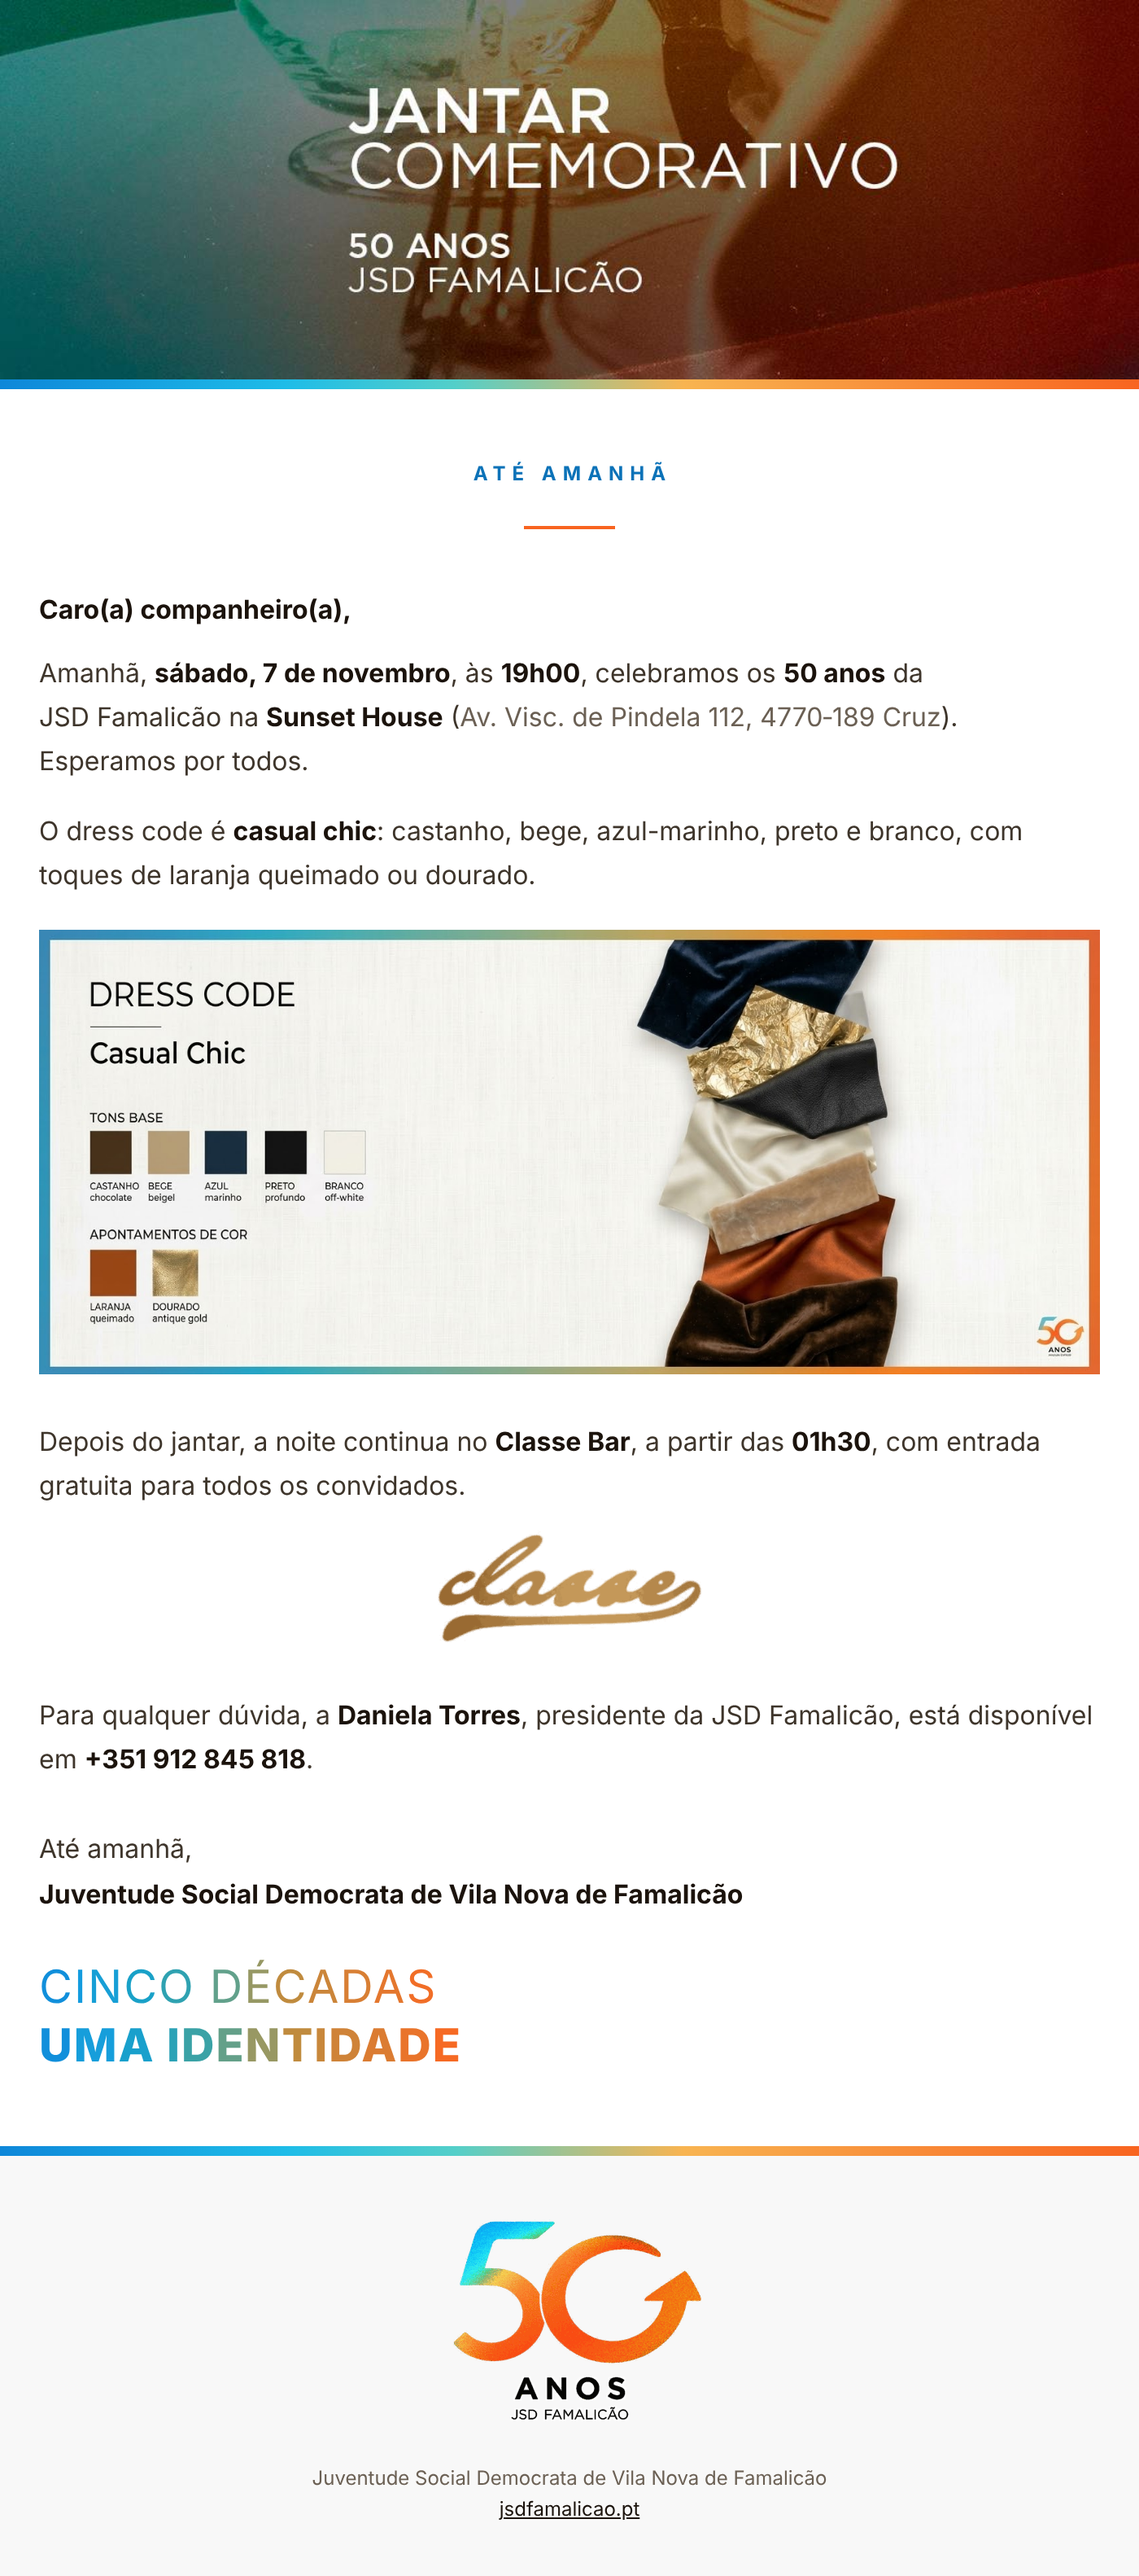
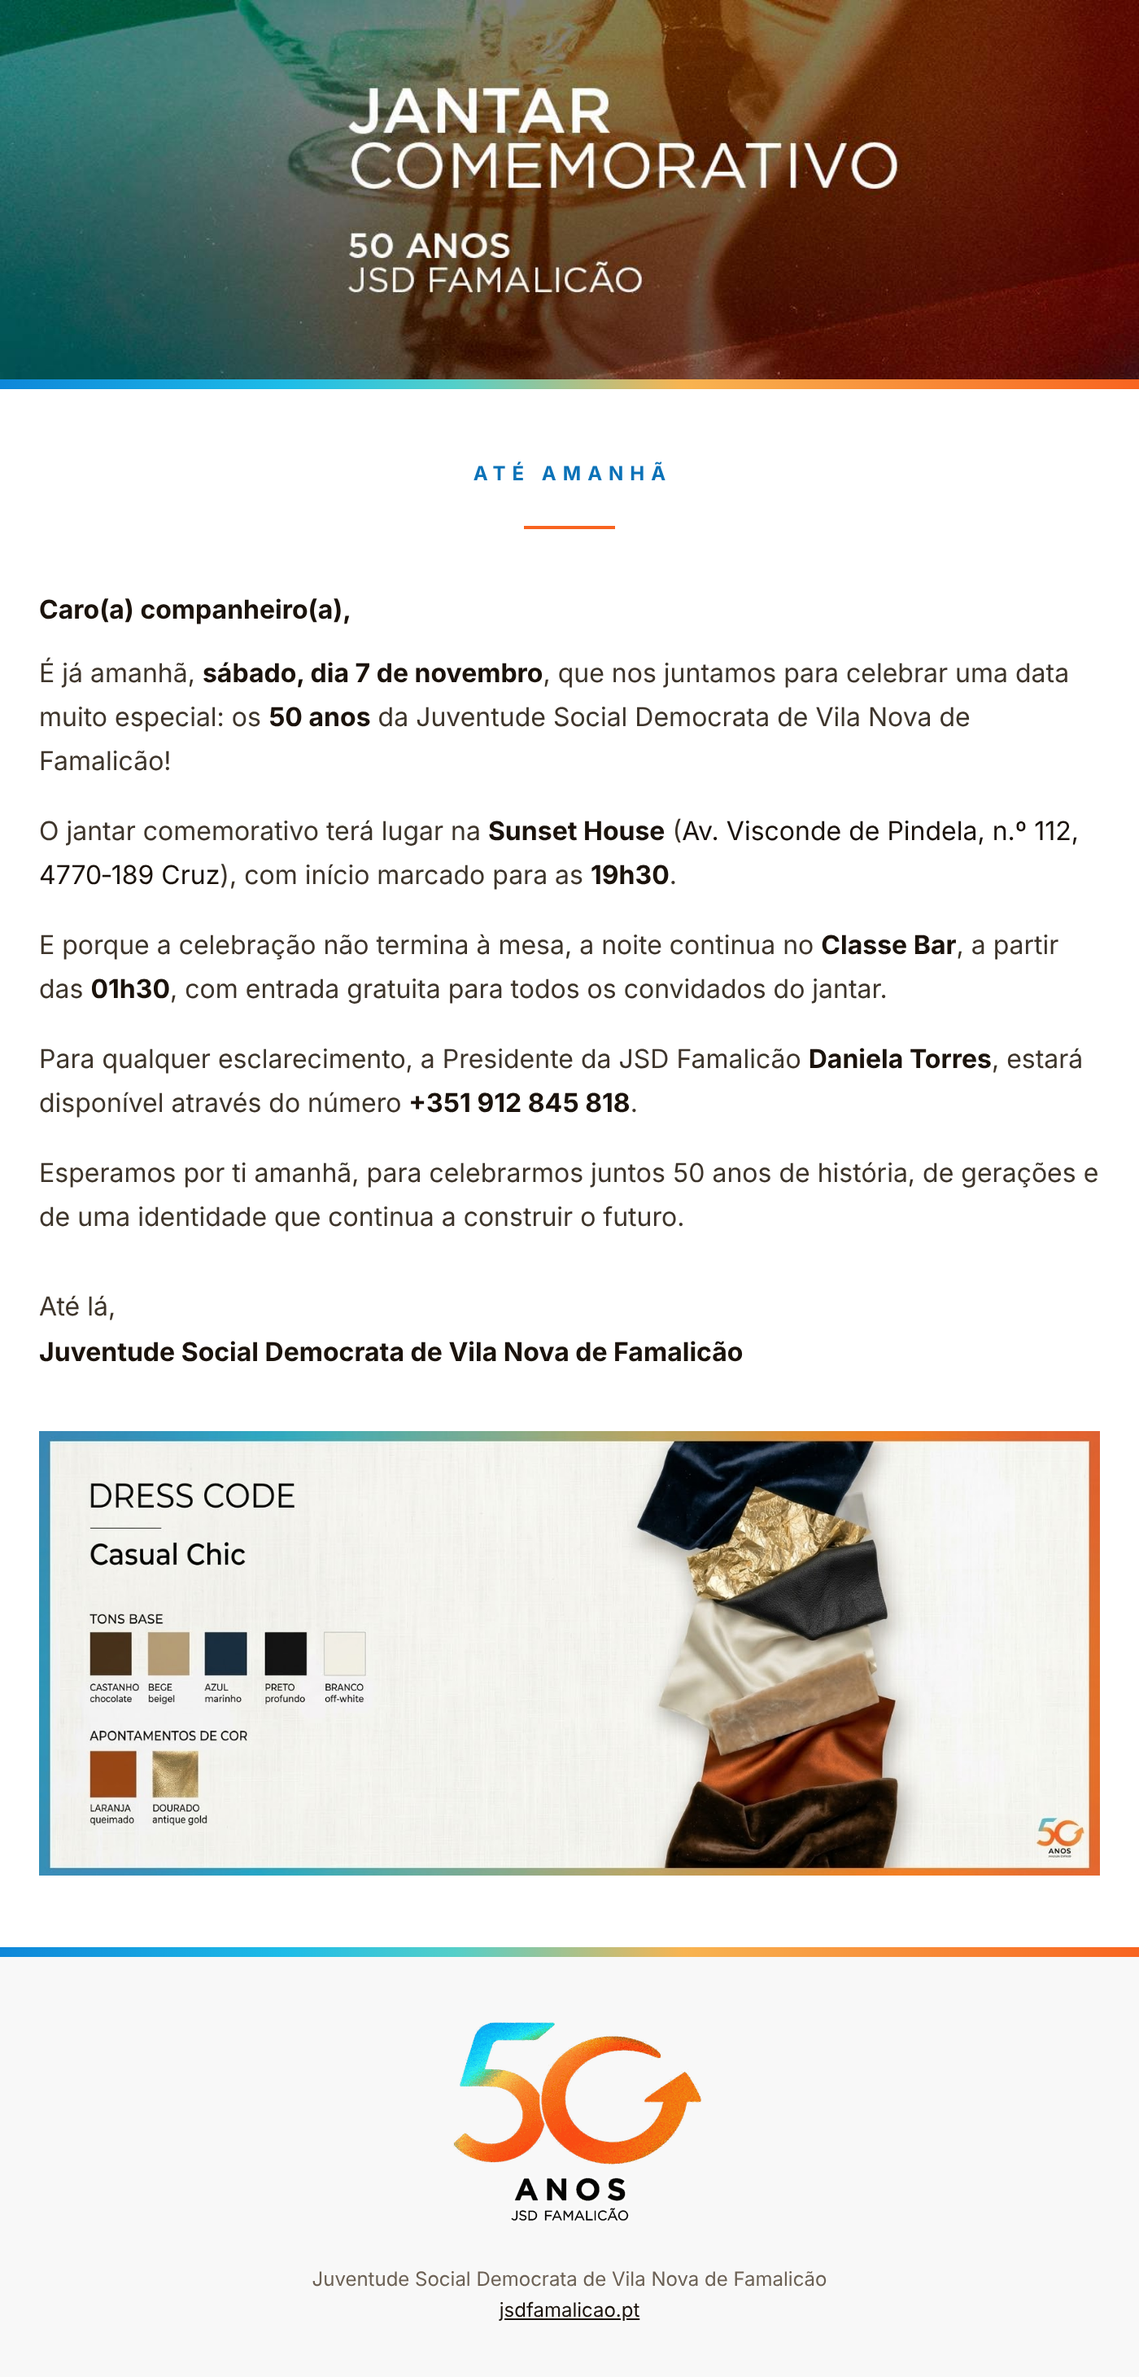
Lembrete: texto final fornecido pela JSD, imagem do dress code no fim
Claude-Session: https://claude.ai/code/session_01NgGM5uT8XH9LdBdVBivDe4

diff --git a/email/jsd-50-anos/v13-lembrete-evento.html b/email/jsd-50-anos/v13-lembrete-evento.html
@@ -41,7 +41,7 @@ Espaços feitos com padding de células; o <style> acima só aumenta a letra em 
 <body style="margin:0; padding:0; background-color:#FFFFFF;">
 
 <div style="display:none; max-height:0; overflow:hidden; opacity:0; font-size:1px; line-height:1px; color:#FFFFFF;">
-Amanhã, 19h00, Sunset House. Dress code casual chic e after party no Classe Bar.
+É já amanhã. Sunset House, 19h30. Depois, a noite continua no Classe Bar, a partir das 01h30.
 &#8199;&#847;&#8199;&#847;&#8199;&#847;&#8199;&#847;&#8199;&#847;&#8199;&#847;&#8199;&#847;&#8199;&#847;
 </div>
 
@@ -78,37 +78,30 @@ style="display:block; min-width:100%; max-width:100%; height:auto; border:0; out
 <td class="px t-corpo" align="left" style="padding:36px 24px 0px 24px; font-family:Montserrat,'Helvetica Neue',Helvetica,Arial,sans-serif; font-size:16px; line-height:27px; font-weight:700; color:#1B130C; text-align:left;">Caro(a) companheiro(a),</td>
 </tr>
 <tr>
-<td class="px t-corpo" align="left" style="padding:12px 24px 0px 24px; font-family:Montserrat,'Helvetica Neue',Helvetica,Arial,sans-serif; font-size:16px; line-height:27px; color:#3E352B; text-align:left;">Amanhã, <strong style="color:#1B130C;">sábado, 7&nbsp;de&nbsp;novembro</strong>, às <strong style="color:#1B130C;">19h00</strong>, celebramos os <strong style="color:#1B130C;">50&nbsp;anos</strong> da JSD&nbsp;Famalicão na <strong style="color:#1B130C;">Sunset&nbsp;House</strong> (<a href="https://www.google.com/maps/search/?api=1&amp;query=Av.+Visconde+de+Pindela+112,+4770-189+Cruz" style="color:#6B6054; text-decoration:none;">Av.&nbsp;Visc.&nbsp;de&nbsp;Pindela&nbsp;112, 4770&#8209;189&nbsp;Cruz</a>). Esperamos por todos.</td>
+<td class="px t-corpo" align="left" style="padding:12px 24px 0px 24px; font-family:Montserrat,'Helvetica Neue',Helvetica,Arial,sans-serif; font-size:16px; line-height:27px; color:#3E352B; text-align:left;">É já amanhã, <strong style="color:#1B130C;">sábado, dia 7&nbsp;de&nbsp;novembro</strong>, que nos juntamos para celebrar uma data muito especial: os <strong style="color:#1B130C;">50&nbsp;anos</strong> da Juventude Social Democrata de Vila Nova de Famalicão!</td>
 </tr>
 <tr>
-<td class="px t-corpo" align="left" style="padding:16px 24px 0px 24px; font-family:Montserrat,'Helvetica Neue',Helvetica,Arial,sans-serif; font-size:16px; line-height:27px; color:#3E352B; text-align:left;">O dress code é <strong style="color:#1B130C;">casual chic</strong>: castanho, bege, azul-marinho, preto e branco, com toques de laranja queimado ou dourado.</td>
+<td class="px t-corpo" align="left" style="padding:16px 24px 0px 24px; font-family:Montserrat,'Helvetica Neue',Helvetica,Arial,sans-serif; font-size:16px; line-height:27px; color:#3E352B; text-align:left;">O jantar comemorativo terá lugar na <strong style="color:#1B130C;">Sunset&nbsp;House</strong> (<a href="https://www.google.com/maps/search/?api=1&amp;query=Av.+Visconde+de+Pindela+112,+4770-189+Cruz" style="color:#1B130C; text-decoration:none;">Av.&nbsp;Visconde de Pindela, n.º&nbsp;112, 4770&#8209;189&nbsp;Cruz</a>), com início marcado para as <strong style="color:#1B130C;">19h30</strong>.</td>
 </tr>
 <tr>
-<td class="px" align="center" style="padding:20px 24px 0px 24px; font-size:0; line-height:0; text-align:center;">
-<img src="https://jsdfamalicao.pt/convite/dresscode.png" width="992" alt="Dress code: Casual Chic. Tons base: castanho, bege, azul-marinho, preto e branco. Apontamentos de cor: laranja queimado e dourado." style="display:block; min-width:100%; max-width:100%; height:auto; border:0; outline:none; color:#1B130C; font-family:Montserrat,'Helvetica Neue',Helvetica,Arial,sans-serif; font-size:16px; line-height:24px;">
-</td>
+<td class="px t-corpo" align="left" style="padding:16px 24px 0px 24px; font-family:Montserrat,'Helvetica Neue',Helvetica,Arial,sans-serif; font-size:16px; line-height:27px; color:#3E352B; text-align:left;">E porque a celebração não termina à mesa, a noite continua no <strong style="color:#1B130C;">Classe&nbsp;Bar</strong>, a partir das <strong style="color:#1B130C;">01h30</strong>, com entrada gratuita para todos os convidados do jantar.</td>
 </tr>
 <tr>
-<td class="px t-corpo" align="left" style="padding:28px 24px 0px 24px; font-family:Montserrat,'Helvetica Neue',Helvetica,Arial,sans-serif; font-size:16px; line-height:27px; color:#3E352B; text-align:left;">Depois do jantar, a noite continua no <strong style="color:#1B130C;">Classe&nbsp;Bar</strong>, a partir das <strong style="color:#1B130C;">01h30</strong>, com entrada gratuita para todos os convidados.</td>
+<td class="px t-corpo" align="left" style="padding:16px 24px 0px 24px; font-family:Montserrat,'Helvetica Neue',Helvetica,Arial,sans-serif; font-size:16px; line-height:27px; color:#3E352B; text-align:left;">Para qualquer esclarecimento, a Presidente da JSD&nbsp;Famalicão <strong style="color:#1B130C;">Daniela Torres</strong>, estará disponível através do número <a href="tel:+351912845818" style="color:#1B130C; font-weight:700; text-decoration:none;">+351&nbsp;912&nbsp;845&nbsp;818</a>.</td>
 </tr>
 <tr>
-<td class="px" align="center" style="padding:12px 24px 0px 24px; font-size:0; line-height:0; text-align:center;">
-<table role="presentation" align="center" cellpadding="0" cellspacing="0" border="0" style="margin:0 auto;"><tr><td style="font-size:0; line-height:0; text-align:center;">
-<img src="https://jsdfamalicao.pt/convite/logo-classe.png" width="170" alt="Classe Bar" style="display:block; width:170px; max-width:100%; height:auto; border:0; outline:none; color:#1B130C; font-family:Montserrat,'Helvetica Neue',Helvetica,Arial,sans-serif; font-size:24px; line-height:30px;">
-</td></tr></table>
-</td>
+<td class="px t-corpo" align="left" style="padding:16px 24px 0px 24px; font-family:Montserrat,'Helvetica Neue',Helvetica,Arial,sans-serif; font-size:16px; line-height:27px; color:#3E352B; text-align:left;">Esperamos por ti amanhã, para celebrarmos juntos 50 anos de história, de gerações e de uma identidade que continua a construir o futuro.</td>
 </tr>
 <tr>
-<td class="px t-corpo" align="left" style="padding:28px 24px 0px 24px; font-family:Montserrat,'Helvetica Neue',Helvetica,Arial,sans-serif; font-size:16px; line-height:27px; color:#3E352B; text-align:left;">Para qualquer dúvida, a <strong style="color:#1B130C;">Daniela Torres</strong>, presidente da JSD&nbsp;Famalicão, está disponível em <a href="tel:+351912845818" style="color:#1B130C; font-weight:700; text-decoration:none;">+351&nbsp;912&nbsp;845&nbsp;818</a>.</td>
-</tr>
-<tr>
-<td class="px t-corpo" align="left" style="padding:28px 24px 0px 24px; font-family:Montserrat,'Helvetica Neue',Helvetica,Arial,sans-serif; font-size:16px; line-height:27px; color:#3E352B; text-align:left;">Até amanhã,</td>
+<td class="px t-corpo" align="left" style="padding:28px 24px 0px 24px; font-family:Montserrat,'Helvetica Neue',Helvetica,Arial,sans-serif; font-size:16px; line-height:27px; color:#3E352B; text-align:left;">Até lá,</td>
 </tr>
 <tr>
 <td class="px t-corpo" align="left" style="padding:2px 24px 0px 24px; font-family:Montserrat,'Helvetica Neue',Helvetica,Arial,sans-serif; font-size:16px; line-height:25px; font-weight:700; color:#1B130C; text-align:left;">Juventude Social Democrata de Vila Nova de&nbsp;Famalicão</td>
 </tr>
 <tr>
-<td class="px t-mote" align="left" style="padding:26px 24px 0px 24px; font-family:Montserrat,'Helvetica Neue',Helvetica,Arial,sans-serif; font-size:28px; line-height:36px; letter-spacing:1px; color:#3E352B; text-align:left;"><span style="font-weight:400;"><span style="color:#118FDB;">C</span><span style="color:#149CDF;">I</span><span style="color:#179FD6;">N</span><span style="color:#19A1C8;">C</span><span style="color:#2FA2B1;">O</span> <span style="color:#62A18B;">D</span><span style="color:#969864;">É</span><span style="color:#C08B3E;">C</span><span style="color:#CB8539;">A</span><span style="color:#D87F34;">D</span><span style="color:#E4772E;">A</span><span style="color:#F16E27;">S</span></span><br><span style="font-weight:800;"><span style="color:#118FDB;">U</span><span style="color:#169EDB;">M</span><span style="color:#19A0CC;">A</span> <span style="color:#2BA2B6;">I</span><span style="color:#3AA2A6;">D</span><span style="color:#64A089;">E</span><span style="color:#989863;">N</span><span style="color:#C08B3E;">T</span><span style="color:#C8873B;">I</span><span style="color:#CF8338;">D</span><span style="color:#DB7C32;">A</span><span style="color:#E9742B;">D</span><span style="color:#F66A24;">E</span></span></td>
+<td class="px" align="center" style="padding:36px 24px 0px 24px; font-size:0; line-height:0; text-align:center;">
+<img src="https://jsdfamalicao.pt/convite/dresscode.png" width="992" alt="Dress code: Casual Chic. Tons base: castanho, bege, azul-marinho, preto e branco. Apontamentos de cor: laranja queimado e dourado." style="display:block; min-width:100%; max-width:100%; height:auto; border:0; outline:none; color:#1B130C; font-family:Montserrat,'Helvetica Neue',Helvetica,Arial,sans-serif; font-size:16px; line-height:24px;">
+</td>
 </tr>
 <tr>
 <td class="px t-corpo" align="left" style="padding:0px 24px 44px 24px; font-family:Montserrat,'Helvetica Neue',Helvetica,Arial,sans-serif; font-size:16px; line-height:27px; color:#3E352B; text-align:left;"></td>

diff --git a/email/jsd-50-anos/src/gerar_lembrete_evento.py b/email/jsd-50-anos/src/gerar_lembrete_evento.py
@@ -5,29 +5,29 @@ from gerar_confirmacao import *      # blocos de v11/v12
 
 F = FORTE
 TEL = '+351&nbsp;912&nbsp;845&nbsp;818'
-PRE = 'Amanhã, 19h00, Sunset House. Dress code casual chic e after party no Classe Bar.'
+PRE = 'É já amanhã. Sunset House, 19h30. Depois, a noite continua no Classe Bar, a partir das 01h30.'
 
 def logo_classe_pequeno(cima):
     return logo_classe(cima).replace('width="240"', 'width="170"').replace('width:240px', 'width:170px')
 
 def lembrete():
+    L = lambda t, c: linha(t, c, 0)
     corpo = ''.join([
         cabecalho('ATÉ AMANHÃ', titulo=None, subtitulo=None),
         linha('Caro(a) companheiro(a),', 36, 0, f'font-size:16px; line-height:27px; font-weight:700; color:{ESCURO};'),
-        linha(f'Amanhã, <strong {F}>sábado, 7&nbsp;de&nbsp;novembro</strong>, às <strong {F}>19h00</strong>, celebramos os '
-              f'<strong {F}>50&nbsp;anos</strong> da JSD&nbsp;Famalicão na <strong {F}>Sunset&nbsp;House</strong> ({MAPA_LINK}). '
-              'Esperamos por todos.', 12, 0),
-        linha(f'O dress code é <strong {F}>casual chic</strong>: castanho, bege, azul-marinho, preto e branco, '
-              'com toques de laranja queimado ou dourado.', 16, 0),
-        imagem_dresscode(20),
-        linha(f'Depois do jantar, a noite continua no <strong {F}>Classe&nbsp;Bar</strong>, a partir das <strong {F}>01h30</strong>, '
-              'com entrada gratuita para todos os convidados.', 28, 0),
-        logo_classe_pequeno(12),
-        linha(f'Para qualquer dúvida, a <strong {F}>Daniela Torres</strong>, presidente da JSD&nbsp;Famalicão, está disponível em '
-              f'<a href="tel:+351912845818" style="color:{ESCURO}; font-weight:700; text-decoration:none;">{TEL}</a>.', 28, 0),
-        linha('Até amanhã,', 28, 0),
+        L(f'É já amanhã, <strong {F}>sábado, dia 7&nbsp;de&nbsp;novembro</strong>, que nos juntamos para celebrar uma data muito especial: '
+          f'os <strong {F}>50&nbsp;anos</strong> da Juventude Social Democrata de Vila Nova de Famalicão!', 12),
+        L(f'O jantar comemorativo terá lugar na <strong {F}>Sunset&nbsp;House</strong> (<a href="{MAPA_HREF}" style="color:{ESCURO}; text-decoration:none;">'
+          f'Av.&nbsp;Visconde de Pindela, n.º&nbsp;112, 4770&#8209;189&nbsp;Cruz</a>), com início marcado para as <strong {F}>19h30</strong>.', 16),
+        L(f'E porque a celebração não termina à mesa, a noite continua no <strong {F}>Classe&nbsp;Bar</strong>, a partir das <strong {F}>01h30</strong>, '
+          'com entrada gratuita para todos os convidados do jantar.', 16),
+        L(f'Para qualquer esclarecimento, a Presidente da JSD&nbsp;Famalicão <strong {F}>Daniela Torres</strong>, estará disponível através do número '
+          f'<a href="tel:+351912845818" style="color:{ESCURO}; font-weight:700; text-decoration:none;">{TEL}</a>.', 16),
+        L('Esperamos por ti amanhã, para celebrarmos juntos 50 anos de história, de gerações e de uma identidade que continua a construir o futuro.', 16),
+        L('Até lá,', 28),
         linha(ASSINATURA, 2, 0, f'font-size:16px; line-height:25px; font-weight:700; color:{ESCURO};'),
-        mote(), linha('', 0, 44),
+        imagem_dresscode(36),            # só a imagem, sem texto sobre o dress code
+        linha('', 0, 44),
     ])
     html = pagina('50 Anos JSD Famalicão · Lembrete', PRE, corpo, '', css_extra=CSS, claro_forcado=True, logo_png=True,
                   gerador='src/gerar_lembrete_evento.py', banner_coluna=True, link_banner=SITE_50)
